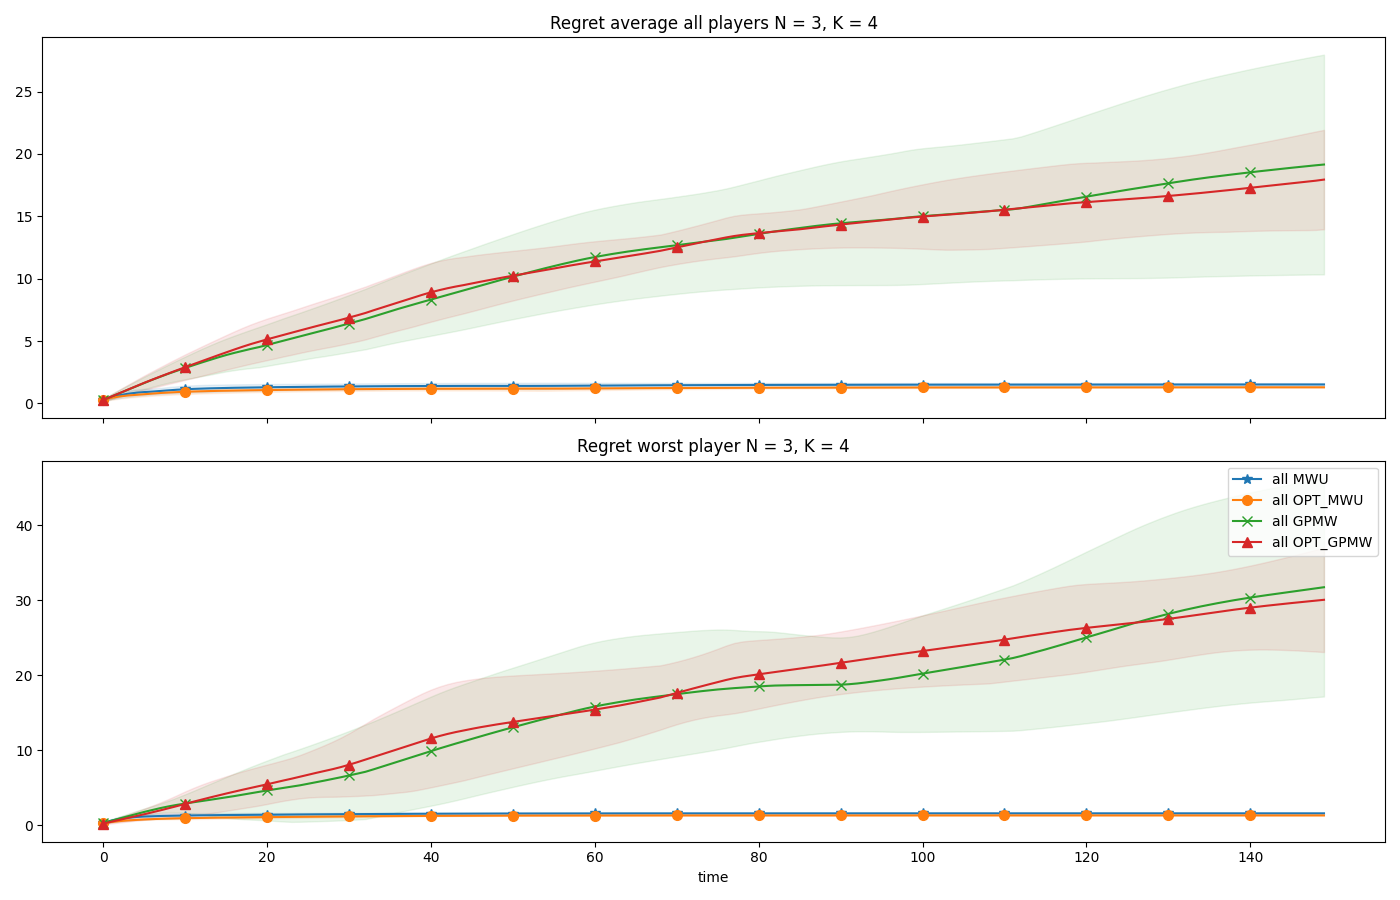
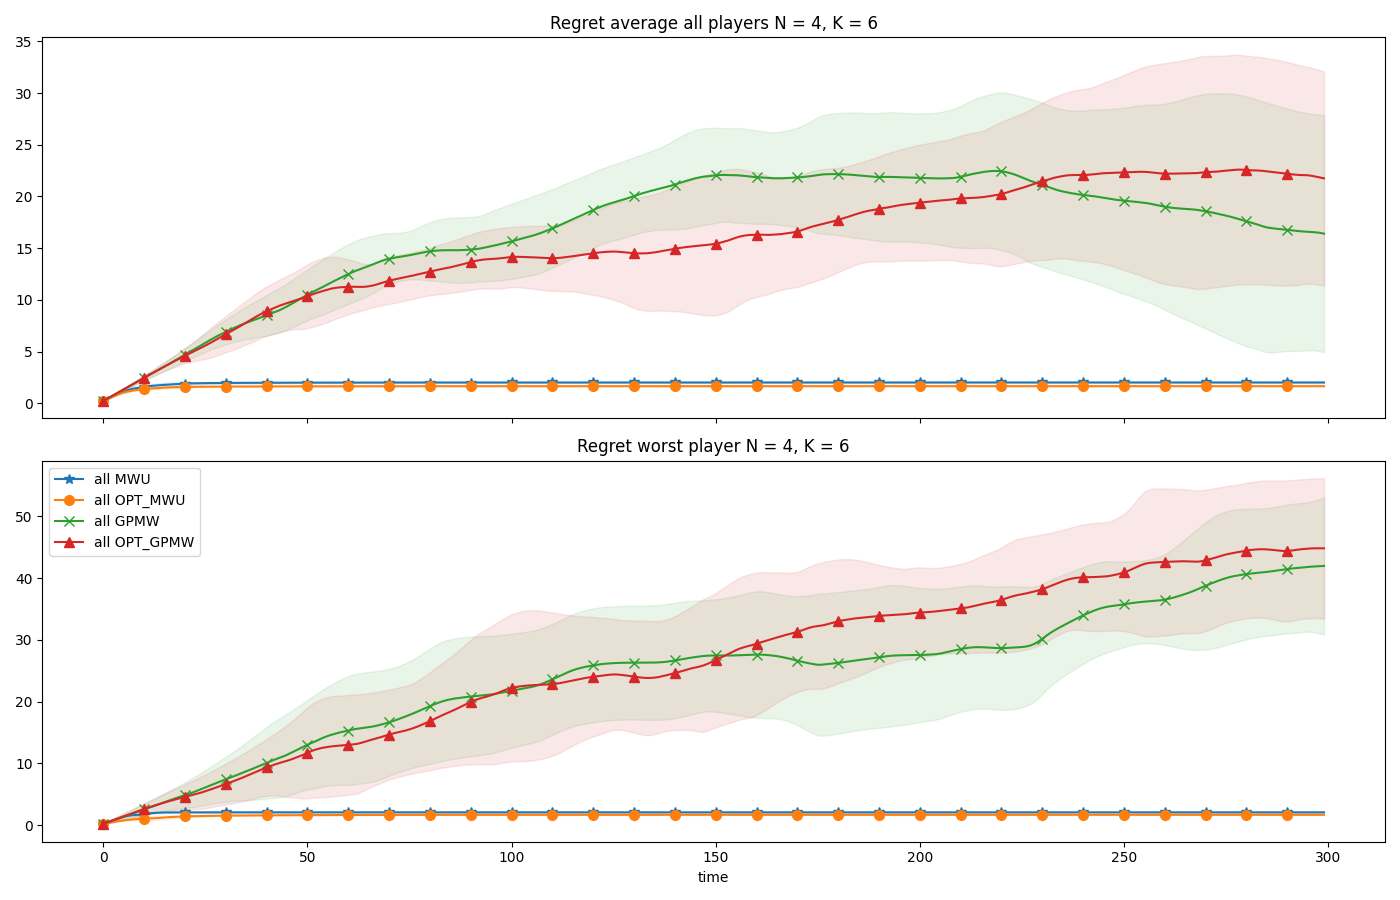
all + recursive

diff --git a/Repeated_MatrixGames/aux_functions.py b/Repeated_MatrixGames/aux_functions.py
@@ -46,27 +46,66 @@ class Player_OPT_MWU:  # Hedge algorithm (Freund and Schapire. 1997)
 
 
 class Player_GPMW:
-    def __init__(self, K, T, N, sigma):
+    def __init__(self, K, T, N, sigma, all_action_profiles):
         self.type = "GPMW"
         self.K = K
         self.T = T
         self.N = N
         self.weights = np.ones(K)
-        self.UCB_Matrix = np.zeros([K]*N)
+        self.UCB_Matrix = np.zeros([K] * N)
         self.gamma_t = 1
         self.beta_t = 2.0
+        self.sigma = sigma
         self.kernel = RBF()
-        self.gpr = GaussianProcessRegressor(kernel = self.kernel, n_restarts_optimizer=10, alpha=sigma**2)
+        self.gpr = GaussianProcessRegressor(kernel=self.kernel, n_restarts_optimizer=10, alpha=sigma ** 2)
+        self.mean_matrix = 0 * np.ones(K ** N)
+        self.var_matrix = np.zeros(K ** N)
+        self.all_action_profiles = all_action_profiles
+        self.kernel_matrix = RBF.__call__(RBF(), all_action_profiles)
+        for idx in range(K**N):
+            self.var_matrix[idx] = np.array(self.kernel_matrix[idx,idx])
+        self.std_matrix = np.sqrt(self.var_matrix)
 
     def mixed_strategy(self):
         return self.weights / np.sum(self.weights)
 
-    def GP_update(self, history_actions, history_payoffs, X_predicts, i):
-        self.gpr.fit(history_actions, history_payoffs)
-        mean_prediction, std_prediction = self.gpr.predict(X_predicts, return_std=True)
-        mean_prediction = np.array(mean_prediction).reshape([self.K]*self.N)
-        std_prediction = np.array(std_prediction).reshape([self.K]*self.N)
-        self.UCB_Matrix = mean_prediction + self.beta_t*std_prediction
+    def GP_update(self, history_actions, history_payoffs, t):
+        if 0:
+            self.gpr.fit(history_actions, history_payoffs)
+            # params = self.gpr.kernel_.get_params()
+            # k1 = params.get('k1__constant_value')
+            # k2 = params.get('k2__length_scale')
+            mean_prediction, std_prediction = self.gpr.predict(self.all_action_profiles, return_std=True)
+            mean_prediction = np.array(mean_prediction).reshape([self.K] * self.N)
+            std_prediction = np.array(std_prediction).reshape([self.K] * self.N)
+            self.UCB_Matrix = mean_prediction + self.beta_t * std_prediction
+        if 1:
+            self.UCB_Matrix = np.ndarray.flatten(self.UCB_Matrix)
+            mean_matrix_prev = np.array(self.mean_matrix)
+            var_matrix_prev = np.array(self.var_matrix)
+            kernel_matrix_prev = np.array(self.kernel_matrix)
+
+            mean_matrix = np.zeros(self.K ** self.N)
+            var_matrix = np.zeros(self.K ** self.N)
+
+            idx_t = np.squeeze(np.where(np.all(self.all_action_profiles == history_actions[-1], axis=1)))
+            for idx in range(self.all_action_profiles.shape[0]):
+                mean_matrix[idx] = mean_matrix_prev[idx] + (kernel_matrix_prev[idx, idx_t] /
+                                                            (self.sigma ** 2 + var_matrix_prev[idx_t])) * (
+                                               history_payoffs[-1] - mean_matrix_prev[idx_t])
+                var_matrix[idx] = var_matrix_prev[idx] - (kernel_matrix_prev[idx, idx_t] ** 2) / (
+                        self.sigma ** 2 + var_matrix_prev[idx_t])
+
+                self.UCB_Matrix[idx] = mean_matrix[idx] + self.beta_t * np.sqrt(var_matrix[idx])
+
+            kernel_matrix = kernel_matrix_prev - np.outer(kernel_matrix_prev[:, idx_t], kernel_matrix_prev[idx_t, :]) * (
+                    1 / (self.sigma ** 2 + var_matrix_prev[idx_t]))
+
+            self.var_matrix = var_matrix
+            self.std_matrix = np.sqrt(var_matrix)
+            self.mean_matrix = mean_matrix
+            self.kernel_matrix = kernel_matrix
+            self.UCB_Matrix = self.UCB_Matrix.reshape([self.K] * self.N)
 
     def Update(self, payoffs, t):
         # self.gamma_t = np.sqrt(8*np.log(K)/t)
@@ -75,28 +114,65 @@ class Player_GPMW:
         self.weights = self.weights / np.sum(
             self.weights)
 
+
 class Player_OPT_GPMW:
-    def __init__(self, K, T, N, sigma):
+    def __init__(self, K, T, N, sigma, all_action_profiles):
         self.type = "OPT_GPMW"
         self.K = K
         self.T = T
         self.N = N
         self.weights = np.ones(K)
-        self.UCB_Matrix = np.zeros([K]*N)
+        self.UCB_Matrix = np.zeros([K] * N)
         self.gamma_t = 1
         self.beta_t = 2.0
+        self.sigma = sigma
         self.kernel = RBF()
-        self.gpr = GaussianProcessRegressor(kernel = self.kernel, n_restarts_optimizer=10, alpha=sigma**2)
+        self.gpr = GaussianProcessRegressor(kernel=self.kernel, n_restarts_optimizer=10, alpha=sigma ** 2)
+        self.mean_matrix = 0 * np.ones(K ** N)
+        self.var_matrix = np.zeros(K ** N)
+        self.all_action_profiles = all_action_profiles
+        self.kernel_matrix = RBF.__call__(RBF(), all_action_profiles)
+        for idx in range(K**N):
+            self.var_matrix[idx] = np.array(self.kernel_matrix[idx,idx])
+        self.std_matrix = np.sqrt(self.var_matrix)
 
     def mixed_strategy(self):
         return self.weights / np.sum(self.weights)
 
-    def GP_update(self, history_actions, history_payoffs, X_predicts, i):
-        self.gpr.fit(history_actions, history_payoffs)
-        mean_prediction, std_prediction = self.gpr.predict(X_predicts, return_std=True)
-        mean_prediction = np.array(mean_prediction).reshape([self.K]*self.N)
-        std_prediction = np.array(std_prediction).reshape([self.K]*self.N)
-        self.UCB_Matrix = mean_prediction + self.beta_t*std_prediction
+    def GP_update(self, history_actions, history_payoffs):
+        if 0:
+            self.gpr.fit(history_actions, history_payoffs)
+            mean_prediction, std_prediction = self.gpr.predict(self.all_action_profiles, return_std=True)
+            mean_prediction = np.array(mean_prediction).reshape([self.K] * self.N)
+            std_prediction = np.array(std_prediction).reshape([self.K] * self.N)
+            self.UCB_Matrix = mean_prediction + self.beta_t * std_prediction
+        if 1:
+            self.UCB_Matrix = np.ndarray.flatten(self.UCB_Matrix)
+            mean_matrix_prev = np.array(self.mean_matrix)
+            var_matrix_prev = np.array(self.var_matrix)
+            kernel_matrix_prev = np.array(self.kernel_matrix)
+
+            mean_matrix = np.zeros(self.K ** self.N)
+            var_matrix = np.zeros(self.K ** self.N)
+
+            idx_t = np.squeeze(np.where(np.all(self.all_action_profiles == history_actions[-1], axis=1)))
+            for idx in range(self.all_action_profiles.shape[0]):
+                mean_matrix[idx] = mean_matrix_prev[idx] + (kernel_matrix_prev[idx, idx_t] /
+                                                            (self.sigma ** 2 + var_matrix_prev[idx_t])) * (
+                                               history_payoffs[-1] - mean_matrix_prev[idx_t])
+                var_matrix[idx] = var_matrix_prev[idx] - (kernel_matrix_prev[idx, idx_t] ** 2) / (
+                        self.sigma ** 2 + var_matrix_prev[idx_t])
+
+                self.UCB_Matrix[idx] = mean_matrix[idx] + self.beta_t * np.sqrt(var_matrix[idx])
+
+            kernel_matrix = kernel_matrix_prev - np.outer(kernel_matrix_prev[:, idx_t], kernel_matrix_prev[idx_t, :]) * (
+                    1 / (self.sigma ** 2 + var_matrix_prev[idx_t]))
+
+            self.var_matrix = var_matrix
+            self.std_matrix = np.sqrt(var_matrix)
+            self.mean_matrix = mean_matrix
+            self.kernel_matrix = kernel_matrix
+            self.UCB_Matrix = self.UCB_Matrix.reshape([self.K] * self.N)
 
     def Update(self, payoffs_t, payoffs_t_1, t, N):
         # self.gamma_t = np.sqrt(8*np.log(K)/t)
@@ -121,3 +197,10 @@ def joint_dist(Mixed_strategies, K):
     for j in range(K):
         joint_dis.append(x[j] * tmp_joint)
     return np.array(joint_dis)
+
+
+def get_combinations(params):
+    all_indices = np.indices(params)
+    return np.moveaxis(all_indices, 0, -1).reshape(-1, len(params))
+
+

diff --git a/Repeated_MatrixGames/Repeated_matrix_games.py b/Repeated_MatrixGames/Repeated_matrix_games.py
@@ -1,12 +1,13 @@
 import numpy as np
 import pickle
 from tqdm import tqdm
-from aux_functions import Assign_payoffs, Player_MWU, Player_GPMW, Player_OPT_MWU, joint_dist
+from aux_functions import Assign_payoffs, Player_MWU, Player_GPMW, Player_OPT_MWU, Player_OPT_GPMW, joint_dist, \
+    get_combinations
 from sklearn.gaussian_process.kernels import RBF
 
-N = 3  # number of players
-K = 4  # number of actions for each player
-T = 150  # time horizon
+N = 4  # number of players
+K = 6  # number of actions for each player
+T = 300  # time horizon
 sigma = 1
 
 " Data to be saved (for post processing/plotting) "
@@ -40,9 +41,9 @@ def RunGame(N, K, T, A, sigma, types):
         if types[i] == 'OPT_MWU':
             Player[i] = Player_OPT_MWU(K, T)
         if types[i] == 'GPMW':
-            Player[i] = Player_GPMW(K, T, N, sigma)
+            Player[i] = Player_GPMW(K, T, N, sigma, all_action_profiles)
         if types[i] == 'OPT_GPMW':
-            Player[i] = Player_GPMW(K, T, N, sigma)
+            Player[i] = Player_OPT_GPMW(K, T, N, sigma, all_action_profiles)
 
     " Repated Game "
     for t in tqdm(range(T)):
@@ -102,21 +103,16 @@ def RunGame(N, K, T, A, sigma, types):
             if Player[i].type == "GPMW":
                 history_actions = np.array([Game_data.Played_actions[x] for x in range(t + 1)])
                 history_payoffs = np.array([Game_data.Obtained_payoffs[x][i] + noises[x] for x in range(t + 1)])
-                Player[i].GP_update(history_actions, history_payoffs, all_action_profiles, i)
+                Player[i].GP_update(history_actions, history_payoffs, t)
                 Player[i].Update(Game_data.Expected_payoff_to_update[i][1], t)
 
             if Player[i].type == "OPT_GPMW":
                 history_actions = np.array([Game_data.Played_actions[x] for x in range(t + 1)])
                 history_payoffs = np.array([Game_data.Obtained_payoffs[x][i] + noises[x] for x in range(t + 1)])
-                Player[i].GP_update(history_actions, history_payoffs, all_action_profiles, i)
+                Player[i].GP_update(history_actions, history_payoffs)
                 Player[i].Update(Game_data.Expected_payoff_to_update[i][1],
                                  Game_data.Expected_payoff_to_update[i][0], t, N)
     return Game_data, Player
-
-
-def get_combinations(params):
-    all_indices = np.indices(params)
-    return np.moveaxis(all_indices, 0, -1).reshape(-1, len(params))
 
 
 '''is normalization needed??'''
@@ -143,7 +139,7 @@ def Generate_A(K):
 " --------------------------------- Begin Simulations --------------------------------- "
 
 Runs = 9
-# np.random.seed(10)
+np.random.seed(10)
 
 N_types = [['MWU'] * N, ['OPT_MWU'] * N, ['GPMW'] * N, ['OPT_GPMW'] * N]
 avg_expected_Regrets_all = []
